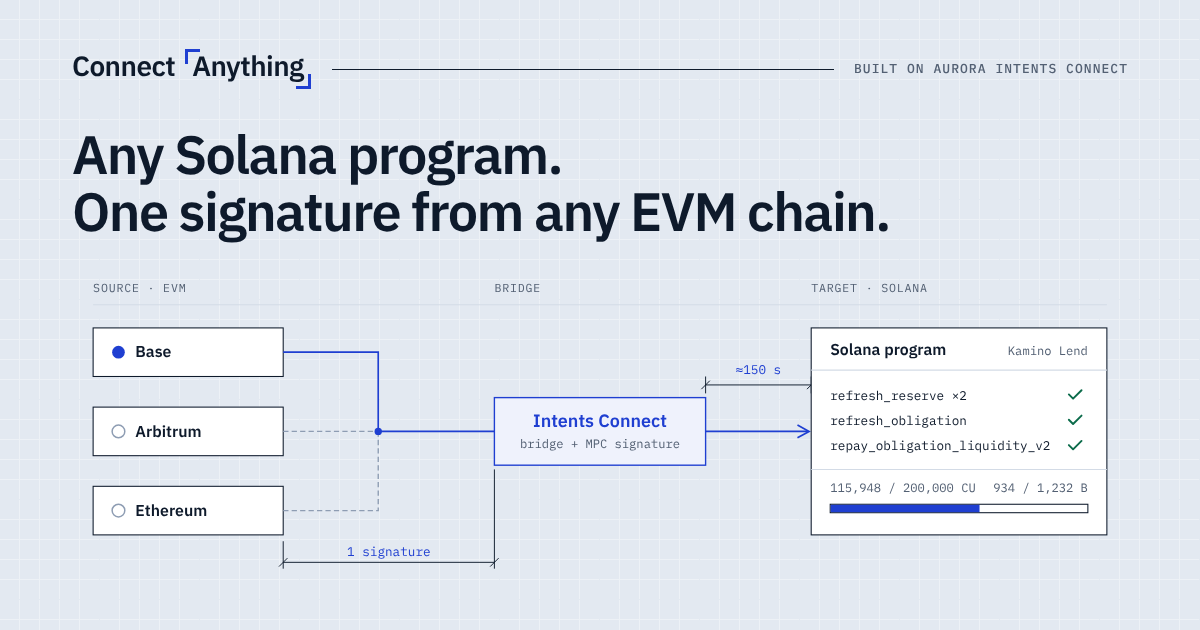
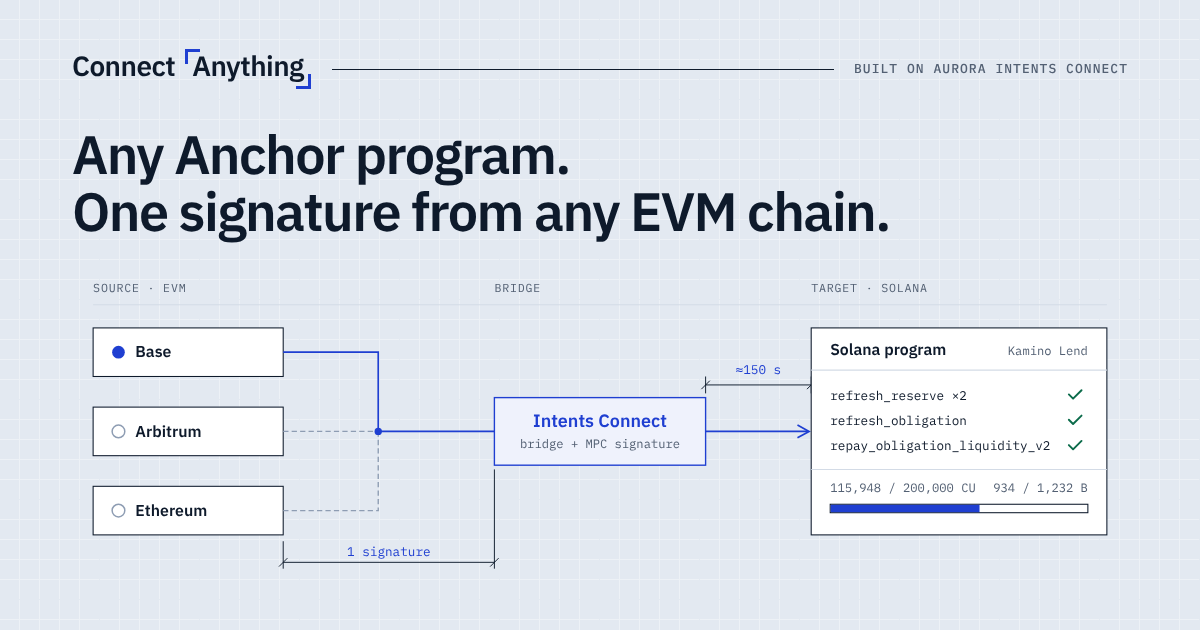
Landing: say Anchor program, and what a fork result proves
The hero and the link preview said "Any Solana program", but only Anchor
programs with an IDL work. The hint under the drawing goes, and the line
under the fork results now says what a row is and that it can be run again.

Claude-Session: https://claude.ai/code/session_01XSjcugUgSjqYtb6iBHUU1w

Changed region(s): [[0.1233, 0.2111, 0.4625, 0.3016]]

diff --git a/apps/web/src/pages/Landing.tsx b/apps/web/src/pages/Landing.tsx
@@ -61,14 +61,10 @@ function Sheet({ n, id, label, title, lead, children, className }: { n: number; 
   );
 }
 
-/**
- * Under the drawing: how to pick the chain (its boxes are buttons, see SourcePicker), and Run again, which replays the
- * run more slowly. With reduced motion there is nothing to replay.
- */
+/** Under the drawing: Run again replays the run more slowly. With reduced motion there is nothing to replay. */
 function RunControls({ onAgain }: { onAgain: () => void }) {
   return (
     <div className="mt-6 flex flex-wrap items-center gap-x-4 gap-y-2 md:mt-3">
-      <p className="text-sm text-muted">Press Base, Arbitrum or Ethereum on the drawing to pay from it.</p>
       <button
         type="button"
         onClick={onAgain}
@@ -99,7 +95,7 @@ function Hero() {
         <SheetRule n={1}>Built on Aurora Intents Connect</SheetRule>
         {/* from 640 px the second sentence has a line of its own, and the size keeps it to one line up to 60 px */}
         <h1 id="hero-title" className="mt-6 text-[2.125rem] leading-[1.06] font-semibold tracking-[-0.03em] sm:mt-8 sm:text-[clamp(2.125rem,calc(6.4vw-0.25rem),3.75rem)] sm:leading-[1.04] lg:mt-7">
-          Any Solana program. <span className="sm:block">One signature from any EVM chain.</span>
+          Any Anchor program. <span className="sm:block">One signature from any EVM chain.</span>
         </h1>
         {/* before the drawing in the page, so a phone shows both ways in on its first screen; under it from 960 px */}
         <div className="mt-7 flex flex-col gap-3 sm:flex-row sm:flex-wrap md:order-last md:mt-0 md:items-center md:border-t md:border-border md:pt-6">
@@ -438,7 +434,7 @@ function Proof() {
       <ProofTable />
       <ProofList />
       <div className="mt-5 flex flex-col gap-3 text-sm text-muted sm:flex-row sm:items-center sm:justify-between">
-        <p>Simulated, so no money moved. In the app, each is paid from Base, Arbitrum or Ethereum.</p>
+        <p>Each row is a request this app wrote, kept in the repo with the simulator&apos;s answer. One command runs them all again on today&apos;s mainnet.</p>
         <External href={FIXTURES_URL}>How these were measured</External>
       </div>
       {PROOF_RUNS.length > 0 && <MainnetRuns runs={PROOF_RUNS} />}

diff --git a/apps/web/index.html b/apps/web/index.html
@@ -13,14 +13,14 @@
     <link rel="icon" href="/favicon.svg" type="image/svg+xml" />
     <meta property="og:type" content="website" />
     <meta property="og:site_name" content="Connect Anything" />
-    <meta property="og:title" content="Any Solana program. One signature from any EVM chain." />
+    <meta property="og:title" content="Any Anchor program. One signature from any EVM chain." />
     <meta property="og:description" content="Turn an Anchor program into a button anyone can press from Base, Arbitrum or Ethereum. Aurora Intents Connect bridges the money and runs the instructions on Solana." />
     <meta property="og:image" content="/og.png" />
     <meta property="og:image:width" content="1200" />
     <meta property="og:image:height" content="630" />
     <meta property="og:image:alt" content="Connect Anything: Base, Arbitrum and Ethereum, through Aurora Intents Connect, to a Solana program." />
     <meta name="twitter:card" content="summary_large_image" />
-    <meta name="twitter:title" content="Any Solana program. One signature from any EVM chain." />
+    <meta name="twitter:title" content="Any Anchor program. One signature from any EVM chain." />
     <meta name="twitter:description" content="Turn an Anchor program into a button anyone can press from Base, Arbitrum or Ethereum. Aurora Intents Connect bridges the money and runs the instructions on Solana." />
     <meta name="twitter:image" content="/og.png" />
     <style>

diff --git a/apps/web/e2e/a11y.spec.ts b/apps/web/e2e/a11y.spec.ts
@@ -15,7 +15,7 @@ const KAMINO_CODE = /\/src\/features\/kamino\/page\.tsx|\/assets\/page-[\w-]{8}\
 
 test('the landing page', { tag: '@mobile' }, async ({ page }, testInfo) => {
   await page.goto(LANDING);
-  await expect(page.getByRole('heading', { name: 'Any Solana program. One signature from any EVM chain.' })).toBeVisible();
+  await expect(page.getByRole('heading', { name: 'Any Anchor program. One signature from any EVM chain.' })).toBeVisible();
   await audit(page, testInfo);
 });
 

diff --git a/apps/web/e2e/smoke.spec.ts b/apps/web/e2e/smoke.spec.ts
@@ -10,7 +10,7 @@ import { expect, test } from './support.ts';
 
 const ALLOWED: RegExp[] = [];
 
-const headline = (page: Page) => page.getByRole('heading', { name: 'Any Solana program. One signature from any EVM chain.' });
+const headline = (page: Page) => page.getByRole('heading', { name: 'Any Anchor program. One signature from any EVM chain.' });
 
 const pages = [
   { name: 'the landing page', path: LANDING, ready: headline },

diff --git a/apps/web/e2e/scenes.ts b/apps/web/e2e/scenes.ts
@@ -63,7 +63,7 @@ export const SCENES: Scene[] = [
     tablet: true,
     open: async ({ page }) => {
       await page.goto(LANDING);
-      await expect(page.getByRole('heading', { name: 'Any Solana program. One signature from any EVM chain.' })).toBeVisible();
+      await expect(page.getByRole('heading', { name: 'Any Anchor program. One signature from any EVM chain.' })).toBeVisible();
     },
   },
   {

diff --git a/apps/web/src/pages/OgImage.tsx b/apps/web/src/pages/OgImage.tsx
@@ -21,7 +21,7 @@ export default function OgImage() {
         <span className="label-caps text-[13px]! text-muted">Built on Aurora Intents Connect</span>
       </div>
       <h1 className="mt-9 text-[54px] leading-[1.06] font-semibold tracking-[-0.03em]">
-        Any Solana program.
+        Any Anchor program.
         <br />
         One signature from any EVM chain.
       </h1>
